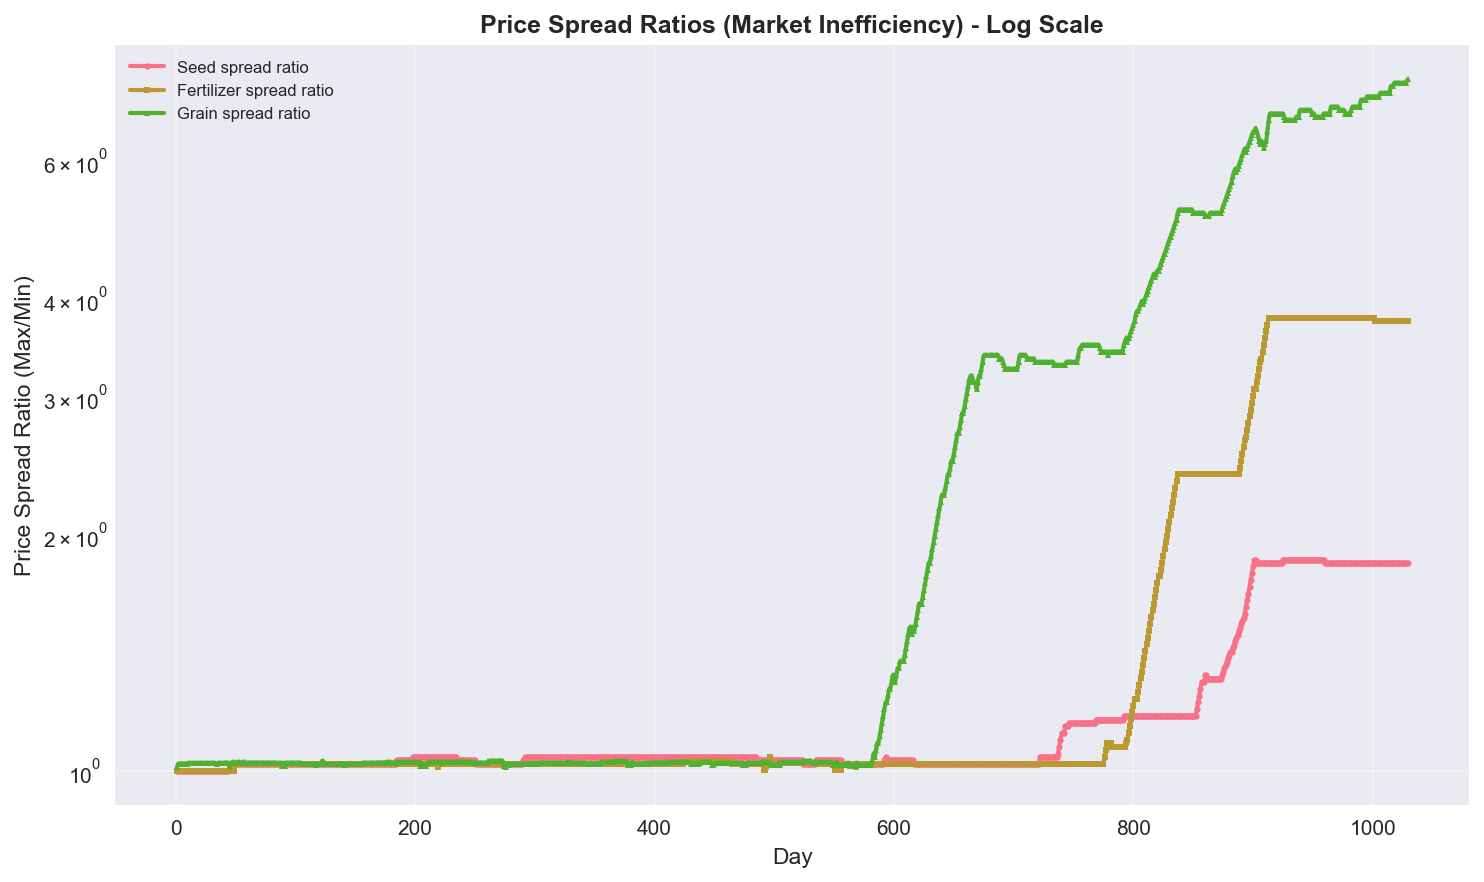
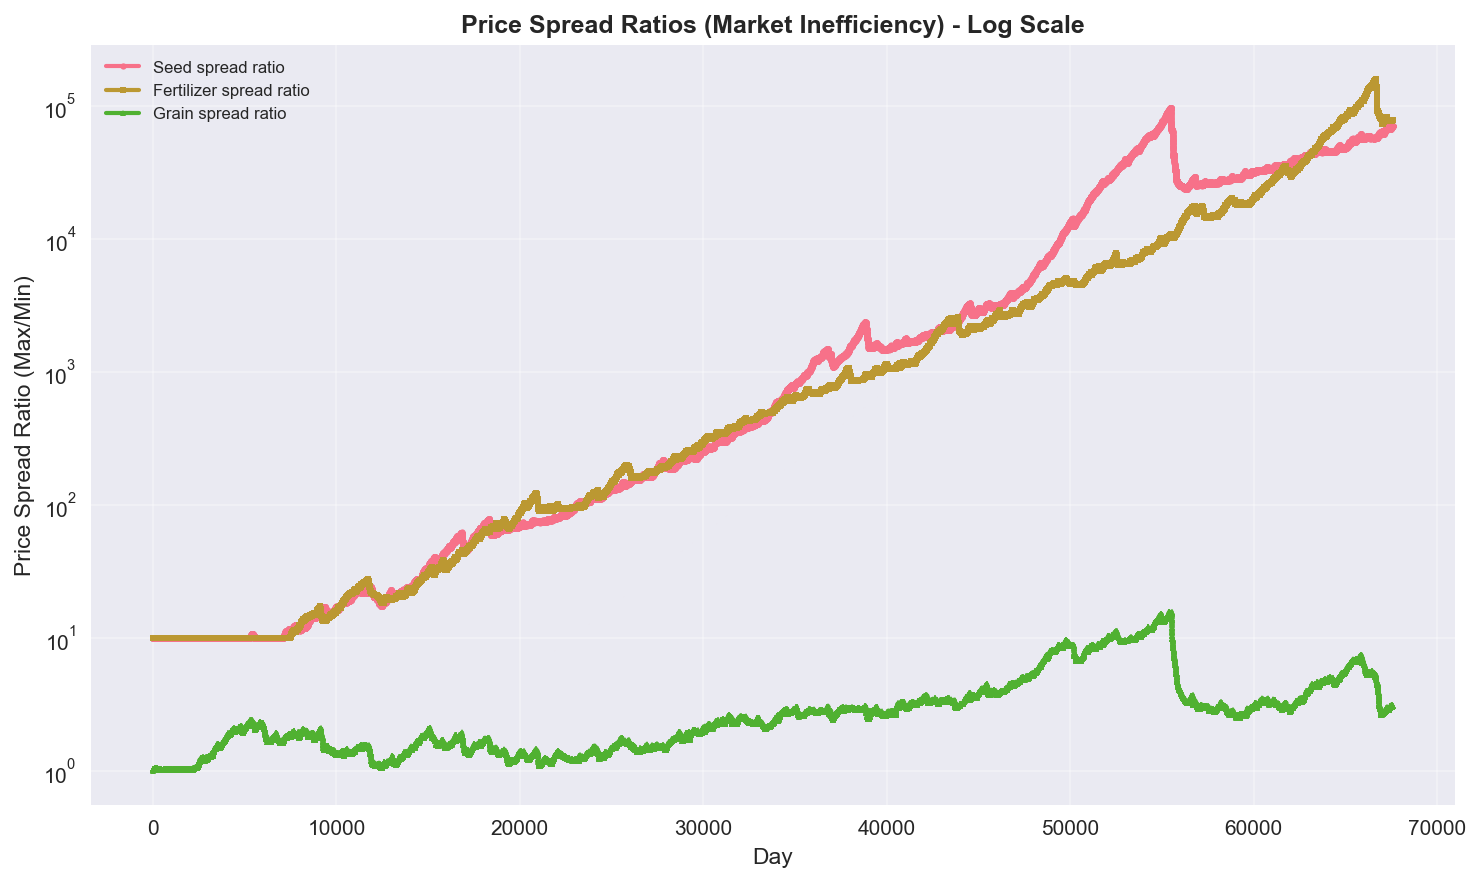
Modify price adjustments

diff --git a/economy-simulator-gui/agents.py b/economy-simulator-gui/agents.py
@@ -9,7 +9,7 @@ from grid import Grid
 FULLNESS_ADDITION = 20
 
 # Price adjustment constants
-PRICE_ADJUSTMENT_RATE = 0.01
+PRICE_ADJUSTMENT_RATE = 0.001
 
 # Peddler inventory limit
 MAX_INVENTORY_PEDDLER = 100
@@ -58,7 +58,7 @@ class Person:
     grid_x: int = 0
     grid_y: int = 0
     fullness: int = 100
-    inventory: Dict[str, int] = field(default_factory=lambda: {'seed': 0, 'fertilizer': 0, 'grain': 50})
+    inventory: Dict[str, int] = field(default_factory=lambda: {'seed': 0, 'fertilizer': 0, 'grain': 200})
     prices: Dict[str, float] = field(default_factory=lambda: {'seed': 10, 'fertilizer': 10, 'grain': 10})
     latest_weights: Dict[str, float] = field(default_factory=dict)
     target_city: Optional[str] = None
@@ -126,50 +126,65 @@ class Person:
             other_person = action_result.other_person
 
             if action_type == ActionType.BUY_SUCCESS:
-                self.prices[item] *= (1 - PRICE_ADJUSTMENT_RATE)
-                other_person.prices[item] *= (1 + PRICE_ADJUSTMENT_RATE)
+                self.prices[item] *= (1 - PRICE_ADJUSTMENT_RATE * TRADE_UNIT_SIZE)
+                other_person.prices[item] *= (1 + PRICE_ADJUSTMENT_RATE * TRADE_UNIT_SIZE)
             elif action_type == ActionType.BUY_REFUSED:
-                self.prices[item] *= (1 + PRICE_ADJUSTMENT_RATE)
+                self.prices[item] *= (1 + PRICE_ADJUSTMENT_RATE * TRADE_UNIT_SIZE)
                 if other_person is not None:
-                    other_person.prices[item] *= (1 - PRICE_ADJUSTMENT_RATE)
+                    other_person.prices[item] *= (1 - PRICE_ADJUSTMENT_RATE * TRADE_UNIT_SIZE)
             elif action_type == ActionType.BUY_CANT_AFFORD:
                 # Buyer's price doesn't change - they have no money
                 # Seller lowers price to try to make a sale
                 if other_person is not None:
-                    other_person.prices[item] *= (1 - PRICE_ADJUSTMENT_RATE)
+                    other_person.prices[item] *= (1 - PRICE_ADJUSTMENT_RATE * TRADE_UNIT_SIZE)
             elif action_type == ActionType.BUY_NO_SELLERS:
                 pass
             elif action_type == ActionType.SELL_SUCCESS:
-                self.prices[item] *= (1 + PRICE_ADJUSTMENT_RATE)
-                other_person.prices[item] *= (1 - PRICE_ADJUSTMENT_RATE)
+                self.prices[item] *= (1 + PRICE_ADJUSTMENT_RATE * TRADE_UNIT_SIZE)
+                other_person.prices[item] *= (1 - PRICE_ADJUSTMENT_RATE * TRADE_UNIT_SIZE)
             elif action_type == ActionType.SELL_REFUSED:
-                self.prices[item] *= (1 - PRICE_ADJUSTMENT_RATE)
+                self.prices[item] *= (1 - PRICE_ADJUSTMENT_RATE * TRADE_UNIT_SIZE)
                 if other_person is not None:
-                    other_person.prices[item] *= (1 + PRICE_ADJUSTMENT_RATE)
+                    other_person.prices[item] *= (1 + PRICE_ADJUSTMENT_RATE * TRADE_UNIT_SIZE)
             elif action_type == ActionType.SELL_CANT_AFFORD:
                 # Seller lowers price when buyer can't afford
-                self.prices[item] *= (1 - PRICE_ADJUSTMENT_RATE)
+                self.prices[item] *= (1 - PRICE_ADJUSTMENT_RATE * TRADE_UNIT_SIZE)
                 # Buyer's price doesn't change - they have no money
             elif action_type == ActionType.SELL_NO_BUYERS:
                 pass
+            elif action_type == ActionType.PRODUCE:
+                self.prices["fertilizer"] *= (1 - PRICE_ADJUSTMENT_RATE)
+            elif action_type == ActionType.COLLECT:
+                self.prices["seed"] *= (1 - PRICE_ADJUSTMENT_RATE)
+            elif action_type == ActionType.GROW:
+                self.prices["grain"] *= (1 - PRICE_ADJUSTMENT_RATE)
+                self.prices["seed"] *= (1 + PRICE_ADJUSTMENT_RATE)
+                self.prices["fertilizer"] *= (1 + PRICE_ADJUSTMENT_RATE)
 
     def buy(self, item, other_people: List['Person']):
         # People can trade if they're in the same city (including None for traveling)
         sellers = [person for person in other_people if
                    person.inventory[item] >= TRADE_UNIT_SIZE and person.city == self.city and self.city is not None]
         if sellers:
-            seller = min(sellers, key=lambda x: x.prices[item])
-            price = seller.prices[item] * TRADE_UNIT_SIZE
-            if seller.prices[item] > self.prices[item]:
-                message = f"{self.name} refuses to buy {TRADE_UNIT_SIZE} {item} from {seller.name} because the price is too high."
-                return ActionResult(ActionType.BUY_REFUSED, item, message, seller)
-            elif self.money >= price:
+            # Filter to sellers whose price we're willing to pay and we can afford
+            valid_sellers = [s for s in sellers if s.prices[item] <= self.prices[item] and self.money >= s.prices[item] * TRADE_UNIT_SIZE]
+            
+            if valid_sellers:
+                # Among valid sellers, pick the one with the lowest price
+                seller = min(valid_sellers, key=lambda x: x.prices[item])
+                price = seller.prices[item] * TRADE_UNIT_SIZE
                 self.money -= price
                 seller.money += price
                 self.inventory[item] += TRADE_UNIT_SIZE
                 seller.inventory[item] -= TRADE_UNIT_SIZE
                 message = f"{self.name} bought {TRADE_UNIT_SIZE} {item} from {seller.name} for {price}."
                 return ActionResult(ActionType.BUY_SUCCESS, item, message, seller)
+            
+            # No valid sellers - check why
+            seller = min(sellers, key=lambda x: x.prices[item])
+            if seller.prices[item] > self.prices[item]:
+                message = f"{self.name} refuses to buy {TRADE_UNIT_SIZE} {item} from {seller.name} because the price is too high."
+                return ActionResult(ActionType.BUY_REFUSED, item, message, seller)
             else:
                 message = f"{self.name} cannot afford {TRADE_UNIT_SIZE} {item}."
                 return ActionResult(ActionType.BUY_CANT_AFFORD, item, message, seller)
@@ -186,20 +201,28 @@ class Person:
 
         buyers = [person for person in other_people if person.city == self.city]
         if buyers:
-            buyer = max(buyers, key=lambda x: x.prices[item])
             price = self.prices[item] * TRADE_UNIT_SIZE
-            if buyer.prices[item] < self.prices[item]:
-                message = f"{self.name} refuses to sell {TRADE_UNIT_SIZE} {item} to {buyer.name} because the price is too low."
-                return ActionResult(ActionType.SELL_REFUSED, item, message, buyer)
-            if buyer.money >= price:
+            # Filter to buyers who are willing to pay at least our price and can afford it
+            valid_buyers = [b for b in buyers if b.prices[item] >= self.prices[item] and b.money >= price]
+            
+            if valid_buyers:
+                # Among valid buyers, pick the one offering the highest price
+                buyer = max(valid_buyers, key=lambda x: x.prices[item])
                 self.money += price
                 buyer.money -= price
                 self.inventory[item] -= TRADE_UNIT_SIZE
                 buyer.inventory[item] += TRADE_UNIT_SIZE
                 message = f"{self.name} sold {TRADE_UNIT_SIZE} {item} to {buyer.name} for {price}."
                 return ActionResult(ActionType.SELL_SUCCESS, item, message, buyer)
-            message = f"{self.name} cannot sell {TRADE_UNIT_SIZE} {item} because no one can afford it."
-            return ActionResult(ActionType.SELL_CANT_AFFORD, item, message, buyer)
+            
+            # No valid buyers - check why
+            buyer = max(buyers, key=lambda x: x.prices[item])
+            if buyer.prices[item] < self.prices[item]:
+                message = f"{self.name} refuses to sell {TRADE_UNIT_SIZE} {item} to {buyer.name} because the price is too low."
+                return ActionResult(ActionType.SELL_REFUSED, item, message, buyer)
+            else:
+                message = f"{self.name} cannot sell {TRADE_UNIT_SIZE} {item} because {buyer.name} cannot afford it (buyer has ${buyer.money:.2f}, needs ${price:.2f})."
+                return ActionResult(ActionType.SELL_CANT_AFFORD, item, message, buyer)
         message = f"{self.name} tried to sell {TRADE_UNIT_SIZE} {item}, but there are no buyers in {self.city}."
         return ActionResult(ActionType.SELL_NO_BUYERS, item, message, None)
 
@@ -225,11 +248,8 @@ class Person:
         """Calculate weight for buying grain based on survival needs"""
         sellers_with_grain = [p for p in other_people_in_city if p.inventory["grain"] >= TRADE_UNIT_SIZE]
         if sellers_with_grain:
-            seller = min(sellers_with_grain, key=lambda x: x.prices["grain"])
-            can_afford = self.money >= seller.prices["grain"] * TRADE_UNIT_SIZE
-            if can_afford:
-                grain_deficit = max(0, SURVIVAL_RESERVE - self.inventory["grain"])
-                return grain_deficit // TRADE_UNIT_SIZE
+            grain_deficit = max(0, SURVIVAL_RESERVE - self.inventory["grain"])
+            return grain_deficit // TRADE_UNIT_SIZE
         return 0
 
 

diff --git a/economy-simulator-gui/simulator.py b/economy-simulator-gui/simulator.py
@@ -14,13 +14,29 @@ class EconomySimulator:
         # City of Harvest: Farmers
         # Specialized Peddlers: Each trades specific goods
         self.people = [
-            SeedCollector(name="Harvester Harry", city="Seeds", money=1000),
-            FertilizerCreator(name="Composter Carl", city="Mulch", money=1000),
-            Farmer(name="Farmer Frank", city="Harvest", money=1000),
-            SeedPeddler(name="Seed Trader Sam", city="Seeds", money=1000),
-            FertilizerPeddler(name="Fertilizer Trader Faye", city="Mulch", money=1000),
-            GrainPeddler(name="Grain Trader Gary", city="Harvest", money=1000),
+            SeedCollector(name="Harvester Harry", city="Seeds", money=10000),
+            FertilizerCreator(name="Composter Carl", city="Mulch", money=10000),
+            Farmer(name="Farmer Frank", city="Harvest", money=10000),
+            SeedPeddler(name="Seed Trader Sam", city="Seeds", money=10000),
+            FertilizerPeddler(name="Fertilizer Trader Faye", city="Mulch", money=10000),
+            GrainPeddler(name="Grain Trader Gary", city="Harvest", money=10000),
         ]
+
+        # Set peddler prices so they only trade their specialty items
+        # Low prices = won't buy (not profitable), normal/high prices = will buy/sell
+        for person in self.people:
+            if isinstance(person, SeedPeddler):
+                # Sam only trades seeds, won't buy fertilizer
+                person.prices['fertilizer'] = 1  # Won't buy fertilizer
+                person.prices['grain'] = 10  # Normal price for grain (survival need)
+            elif isinstance(person, FertilizerPeddler):
+                # Faye only trades fertilizer, won't buy seeds
+                person.prices['seed'] = 1  # Won't buy seeds
+                person.prices['grain'] = 10  # Normal price for grain (survival need)
+            elif isinstance(person, GrainPeddler):
+                # Gary only trades grain, won't buy seeds or fertilizer
+                person.prices['seed'] = 1  # Won't buy seeds
+                person.prices['fertilizer'] = 1  # Won't buy fertilizer
 
         # Place people in their starting cities (center of each city)
         for person in self.people:

diff --git a/economy-simulator-gui/pygame_gui.py b/economy-simulator-gui/pygame_gui.py
@@ -31,8 +31,12 @@ PATH_COLOR = (220, 220, 220)  # Light gray for paths
 TYPE_COLORS = {
     'WaterCollector': BLUE,
     'FertilizerCreator': BROWN,
+    'SeedCollector': ORANGE,
     'Farmer': GREEN,
-    'Peddler': RED
+    'Peddler': RED,
+    'FertilizerPeddler': BROWN,  # Same as FertilizerCreator
+    'GrainPeddler': GREEN,  # Same as Farmer
+    'SeedPeddler': ORANGE  # Same as SeedCollector
 }
 
 
